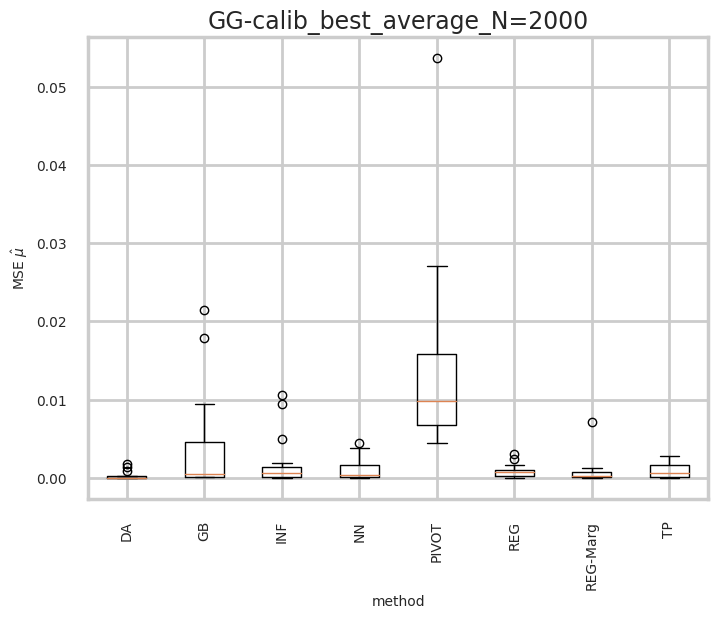
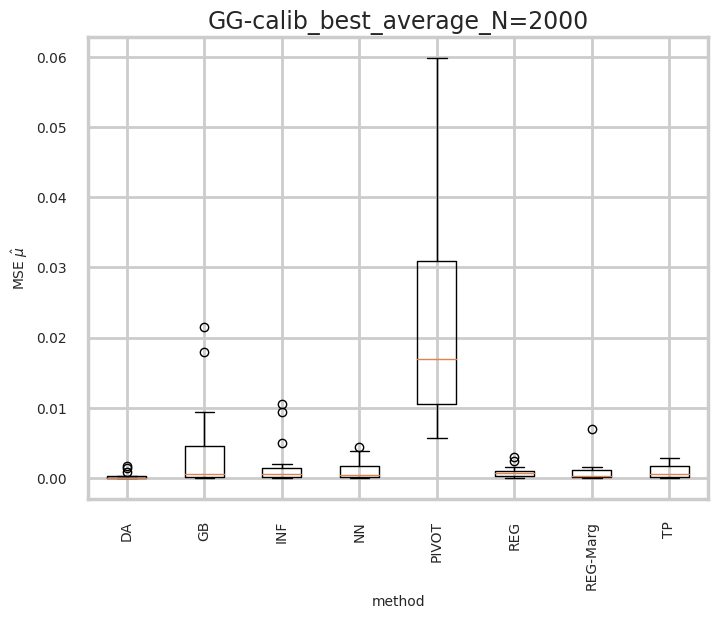
Reunion

diff --git a/Chapter5/chapter5.tex b/Chapter5/chapter5.tex
@@ -58,7 +58,7 @@ The idea is to do one subsection for one result
 
 
 Let's start with the results on the two toy problems (see \autoref{sec:toy_datasets} for details).
-Toys provides a fully controled environement on various parameters of the problem to confront the proposed methods against different difficulties.
+Toys provide a fully controled environement on various parameters of the problem to confront the proposed methods against different difficulties.
 The first one is the small number of samples to do inference (\autoref{sub:performance_according_to_sample_size}).
 
 
@@ -141,14 +141,13 @@ This is less obvious on the calibrated data where increasing the number of sampl
 
 The 1D toy problem (named GG) is asymetric in $\alpha$.
 Indeed increasing $\alpha$ will move appart the center of the signal and the background distribution.
-Also when comparing the nominal distribution and the one with a decreased $\alpha$ with a small amount on signal the signal spike could be confused with a flucuation making inference harder.
-This is why blue curves $\alpha=0.8$ are way above the $\alpha=1.2$ curves in most models.
+On the other hand when comparing the nominal distribution and the one with a smaller $\alpha$ the signal spike will go under the background blanquet.
+With a small amount on signal and a small $\alpha$ the signal spike could be confused with a flucuation making inference harder.
+This is why blue curves $\alpha=0.8$ are way above the $\alpha=1.2$ green curves in most models.
 
 Inferno and the marginal Regressor are not affected by this assymetry.
 Maybe those 2 neural networks are measuring $\alpha$ then correcting it ?
 The marginal Regressor is expected to do so at least.
-
-\victor{TODO : Wait for new Pivot runs to comment on it.}
 
 
 \begin{figure}[ht!]
@@ -207,7 +206,7 @@ The marginal Regressor is expected to do so at least.
 
 
 
-\victor{Evolution de la variance stat et syst en fonction de N\_samples.}
+\victor{TODO : Evolution de la variance stat et syst en fonction de N\_samples.}
 
 
 
@@ -219,17 +218,18 @@ The marginal Regressor is expected to do so at least.
 \label{sub:calibration_influence}
 
 
+\victor{TODO : Le terme CALIBRATION est probablement pas cool. Il lui faudrait donner un autre nom. On fait pas ça dans une région de controle. Et on perd l'indépendance de la calibe avec $\mu$ donc c'est pas de la calibration. Mais c'est pas forcément une mauvaise idée !}
+
 In this benchmark two way of calibrating the data is used.
 \begin{enumerate}
   \item Trust a given prior
   \item Infer the nuisance parameter distribution using a regressor
 \end{enumerate}
 
-Here we show that the later is a better choice and improves significantly the performances of all methods.
-Indeed using only a poorly informed prior leads the baseline to a biased estimator.
-\autoref{fig:gg_baseline_compare_calib_estimator} shows the estimation of a neural net classifier.
+Here we show that the later improves significantly the performances of all methods.
+Indeed using only a poorly informed prior leads the baseline to a biased estimator as shown in \autoref{fig:gg_baseline_compare_calib_estimator} for a neural net classifier.
 It is clear that the estimation depends on $\alpha^\star$ and is biased if $\alpha^\star$ is not the nominal value.
-\victor{TODO : GB \& TP \& REG show the same behaviour. INFERNO is not affected. DA is more robust. Waiting for PIVOT results}
+\victor{TODO : GB \&PIVOT \& TP \& REG show the same behaviour. INFERNO is not affected. DA is more robust.}
 
 Using the given data to improve calibration leads to an unbiased estimator.
 \victor{TODO : Someone may argue that it is because my prior calibration is bad. But my simulator cannot do better...}
@@ -262,7 +262,7 @@ This asymetry tends to disapear when the calibration is done on the data (see \a
   \centering
   \begin{subfigure}[t]{0.49\linewidth}
     \includegraphics[width=\linewidth]{COMPARE/GG-prior/NeuralNetClassifier/profusion_n_samples_mse.png}
-    \caption{Prior calibration}
+    \caption{Calibration with a prior on $\alpha$}
     % \label{fig:gg-prior_GB_profusion_nominal_n_samples_mse}
   \end{subfigure}%
   \hfill
@@ -416,7 +416,12 @@ The regressor and data augmentation are very good with small test size \autoref{
 \subsection{V stat and V syst} % (fold)
 \label{sub:v_stat_and_v_syst}
 
-Stuff about v stat and v syst.
+Pivot and Inferno are clearly tradding $V_{stat}$ and $V_{syst}$.
+They show high values of $V_{stat}$ and very low values of $V_{syst}$ compared to the other methods.
+
+It results is very good inference for inferno but pivot is show poor MSE performance ... why ?
+
+
 
 Inferno is bad at v stat but always the best at v syst !
 
@@ -433,7 +438,8 @@ Inferno is bad at v stat but always the best at v syst !
 
 
 
-
+\clearpage
+\victor{TODO remove temporary clearpage}
 
 \section{Real data} % (fold)
 \label{sec:real_data}
@@ -491,6 +497,18 @@ Inferno is bad at v stat but always the best at v syst !
 \content{Explain and show that the issue comes from the imbalance between signals and backgrounds}
 
 The scatter plot properties is much more dependent to noise or nuisance parameters than to the parameter of interest.
+
+
+
+
+
+
+
+1. XP Toy 1D
+2. XP Toy 3D
+3. XP Broken 1D 3D
+4. Higgs
+5. Repaired Higgs
 
 
 

diff --git a/Chapter4/chapter4.tex b/Chapter4/chapter4.tex
@@ -187,6 +187,9 @@ But also to evaluate the influence of many parameter (eg. number of dimension, n
 \subsection{Toy 1D} % (fold)
 \label{sub:toy_1d}
 
+
+\isabelle{C'est la base ! Le reste est envoyé sur du 1D de toute façon.}
+
 The first toy is a very simple case of estimation of a mixture coefficient in the presence of one systematic effect.
 The likelihood is known and tracktable making maximum likelihood and bayesian inference possible.
 Comparing the inference methods to the best possible inference is a first step to validate them.
